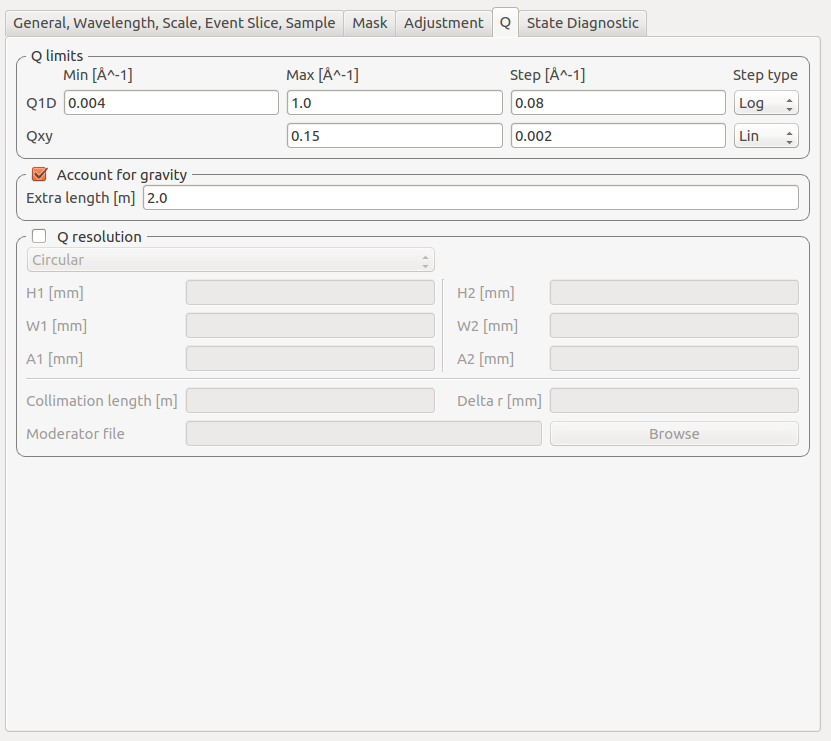
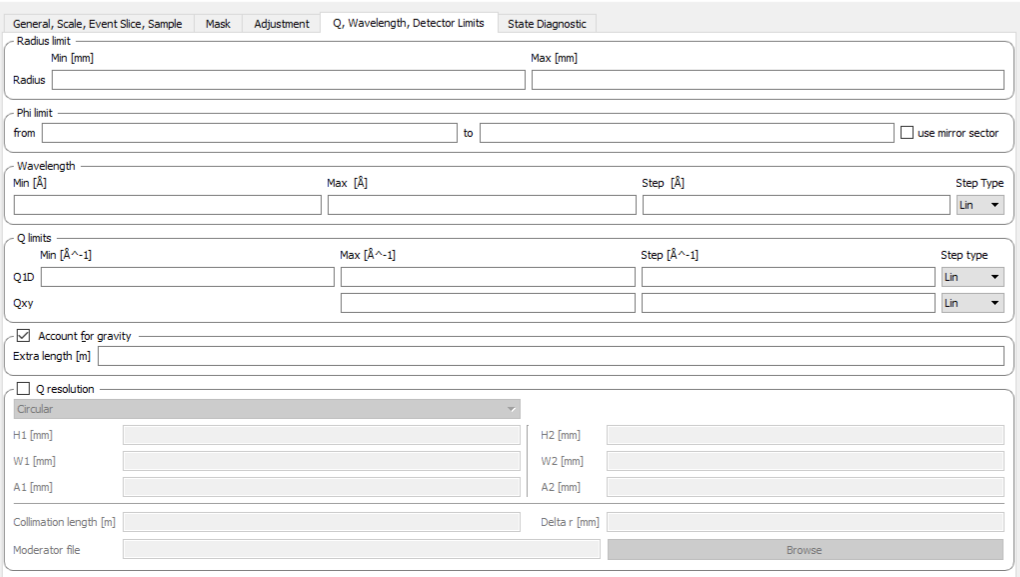
Re #21950 Updated Q tab in settings

Changed region(s): [[0.0, 0.0, 1.0, 0.9983], [0.5114, 0.7487, 0.5716, 0.8111]]

diff --git a/docs/source/interfaces/ISIS SANS v2.rst b/docs/source/interfaces/ISIS SANS v2.rst
@@ -259,9 +259,9 @@ Settings
 The Settings tab and its sub-tabs allow for manipulating and inspecting the reduction parameters which were
 initially set through loading a user file.  Currently there are five sub-tabs:
 
-- **General, Wavelength, Scale, Event Slice, Sample** This tab contains settings which are not associated
-  with the other tabs. This includes settings regarding the general reduction, the wavelength conversion,
-  the absolute scaling of the data, event slicing and sample volume scaling.
+- **General, Scale, Event Slice, Sample** This tab contains settings which are not associated
+  with the other tabs. This includes settings regarding the general reduction, the absolute scaling of the data, 
+  event slicing and sample volume scaling.
 
 - **Mask** The mask tab contains the masking information. It displays the selected masks in the
   familiar mask table.
@@ -354,27 +354,6 @@ If the check-box is enabled, then the time-of-flight binning parameters will be
 taken from the *Event binning* input. If this is not set, then the binning
 parameters will be taken from the monitor workspace.
 
-Wavelength
-""""""""""
-.. _Wavelength:
-
-.. image::  ../images/sans_isis_v2_general_tab_wavelength_conversion.png
-   :align: center
-   :width: 800px
-
-The settings provide the binning for the conversion from
-time-of-flight units to wavelength units. Note that all units are Angstrom.
-
-+-------+---------------+------------------------------------------+
-| **1** | **Min**       | The lower bound of the wavelength bins.  |
-+-------+---------------+------------------------------------------+
-| **2** | **Max**       | The upper bound of the wavelength bins.  |
-+-------+---------------+------------------------------------------+
-| **3** | **Step**      | The step of the wavelength bins.         |
-+-------+---------------+------------------------------------------+
-| **4** | **Step type** | The step type of the wavelength bins,    |
-|       |               | i.e. linear, logarithmic or variable.    |
-+-------+---------------+------------------------------------------+
 
 Scale and Sample
 """"""""""""""""
@@ -445,40 +424,6 @@ pressing *Update Rows*.
 | **3** | **Update rows** | Press this button if you have manually updated the data table.   |
 |       |                 | These changes are currently not picked up automatically.         |
 +-------+-----------------+------------------------------------------------------------------+
-
-Phi limit
-"""""""""
-.. _Phi_Limit:
-
-.. image::  ../images/sans_isis_v2_masking_tab_phi.png
-   :align: right
-   :width: 400px
-
-This group allows the user to specify an angle (pizza-slice) mask. The angles
-are in degree.
-
-+-------+-----------------+---------------------------------------+
-| **1** | **Start angle** | The starting angle.                   |
-+-------+-----------------+---------------------------------------+
-| **2** | **Stop angle**  | The stop angle.                       |
-+-------+-----------------+---------------------------------------+
-| **3** | **Use mirror**  | If the mirror sector should be used.  |
-+-------+-----------------+---------------------------------------+
-
-
-Radius limit
-""""""""""""
-.. _Radius_Limit:
-
-.. image::  ../images/sans_isis_v2_masking_tab_radius.png
-   :align: right
-   :width: 400px
-
-These settings allow for a hollow cylinder mask. The *Min* entry is the inner
-radius and the *Max* entry is the outer radius of the
-hollow cylinder.
-
-
 
 Adjustment
 ^^^^^^^^^^
@@ -645,6 +590,60 @@ Q
    :width: 800px
 
 The elements on this tab relate to settings which are used during the conversion to momentum transfer step of the reduction.
+
+Phi limit
+"""""""""
+.. _Phi_Limit:
+
+.. image::  ../images/sans_isis_v2_masking_tab_phi.png
+   :align: right
+   :width: 400px
+
+This group allows the user to specify an angle (pizza-slice) mask. The angles
+are in degree.
+
++-------+-----------------+---------------------------------------+
+| **1** | **Start angle** | The starting angle.                   |
++-------+-----------------+---------------------------------------+
+| **2** | **Stop angle**  | The stop angle.                       |
++-------+-----------------+---------------------------------------+
+| **3** | **Use mirror**  | If the mirror sector should be used.  |
++-------+-----------------+---------------------------------------+
+
+
+Radius limit
+""""""""""""
+.. _Radius_Limit:
+
+.. image::  ../images/sans_isis_v2_masking_tab_radius.png
+   :align: right
+   :width: 400px
+
+These settings allow for a hollow cylinder mask. The *Min* entry is the inner
+radius and the *Max* entry is the outer radius of the
+hollow cylinder.
+
+Wavelength
+""""""""""
+.. _Wavelength:
+
+.. image::  ../images/sans_isis_v2_general_tab_wavelength_conversion.png
+   :align: center
+   :width: 800px
+
+The settings provide the binning for the conversion from
+time-of-flight units to wavelength units. Note that all units are Angstrom.
+
++-------+---------------+------------------------------------------+
+| **1** | **Min**       | The lower bound of the wavelength bins.  |
++-------+---------------+------------------------------------------+
+| **2** | **Max**       | The upper bound of the wavelength bins.  |
++-------+---------------+------------------------------------------+
+| **3** | **Step**      | The step of the wavelength bins.         |
++-------+---------------+------------------------------------------+
+| **4** | **Step type** | The step type of the wavelength bins,    |
+|       |               | i.e. linear, logarithmic or variable.    |
++-------+---------------+------------------------------------------+
 
 Q limits
 """"""""
